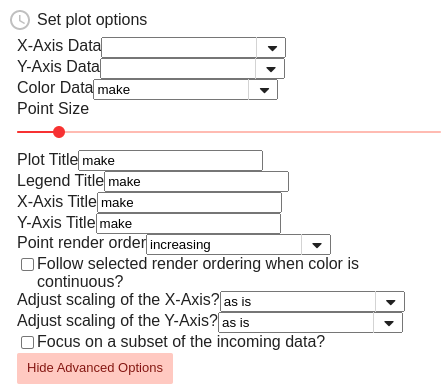
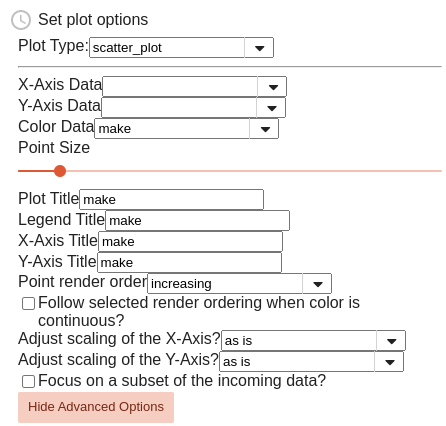
io docs - update Vulcan 'Visualization with Vulcan' section for all-in-one workflow

Changed region(s): [[0.0293, 0.0, 0.9977, 0.9948]]

diff --git a/vulcan.md b/vulcan.md
@@ -122,27 +122,27 @@ enable the "Run" button.
 Upon running, the workflow will run until it completes, encounters an error, or
 requires further input from the user to continue.
 
-### Visualization Workflows
+### Visualization with Vulcan
 
-Some of the most basic, yet likely to be most used workflows of the Vulcan arsenal, these workflows consist of just a few steps where the first is a data query piece (which can be filled in via a [Timur-Query](https://mountetna.github.io/timur.html#query)) followed by a user input step where the user configures how their plot should be generated.
+One of the most basic, yet likely to be most used workflow of the Vulcan arsenal, is the Standard Visualization Workflow. This workflow consist of just a few steps where the first is a data query piece (which can be filled in via a [Timur-Query](https://mountetna.github.io/timur.html#query)) followed by a user input step where the user picks a plot type, then configures how to generate it.
 
-Plot-types currently available are:
+#### The Plot Configuration Interface
+
+**Plot Type Selection:** The first step is picking a plot type from among the available options:
 
 | Scatter | Y (integrated violin and boxplots) | Bar |
 | --- | --- | --- |
-| <img src="assets/images/vulcan/scatter.png" title="Scatter Plot Example" height="250"/> | <img src="assets/images/vulcan/yplot.png" alt="Y Plot Example" height="250"/> | <img src="assets/images/vulcan/barplot.png" alt="Bar Plot Example" height="250"/>|
-
-Each plot type has its own dedicated workflow and an associated vignette where additional details may be given about how particular plots are made.
-
-#### The Plot Configuration Interface
+| <img src="assets/images/vulcan/scatter.png" title="Scatter Plot Example" height="250"/> | <img src="assets/images/vulcan/yplot.png" alt="Y Plot Example" height="250"/> | <img src="assets/images/vulcan/barplot.png" alt="Bar Plot Example" height="250"/> |
 
 **Main Options:** Before a plot can be made from a given set of data, vulcan must be told what parts of the data to map to axes, colors, etc. The "main" inputs of the configuration interface fill in such mappings and are always displayed.  For example, when setting up a scatter plot you would see:
 
 <img src="assets/images/vulcan/scatter-configuration-main.png" alt="Scatter Plot Configuration, main inputs">
+{:.image}
 
 **Advanced Options:** Within the same interface, a set of 'Advanced Options' allow additional tweaks to be made to how the plot will show up, but these are hidden behind a button by default.  Clicking the "Show Advanced Options" button of the configuration interface for a scatter plot will reveal:
 
 <img src="assets/images/vulcan/scatter-configuration-advanced.png" alt="Scatter Plot Example, all inputs">
+{:.image}
 
 Often, you will see inputs filled in by default with 'make'.  'make' is our chosen fill-in for telling the system to "Use the default option," so leaving such inputs as 'make' will let our system fill in that setting with an intuitive default.  Such inputs may be adjusted, or not, as needed.
 
